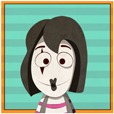
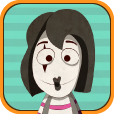
icone novo e entitlements

diff --git a/Mimicmize/StoreViewController.m b/Mimicmize/StoreViewController.m
@@ -10,23 +10,213 @@
 
 @interface StoreViewController ()
 
+@property (nonatomic, strong) NSMutableArray *array_comprados;
+@property (nonatomic, strong) NSMutableArray *array_nao_comprados;
+@property (nonatomic, strong) Bundle *bundle_selected;
+@property (weak, nonatomic) IBOutlet UITableView *table;
+@property (strong, nonatomic) SKProductsRequest *productsRequest;
+@property (nonatomic, strong) SKProduct *product_bundle;
+
 @end
 
 @implementation StoreViewController
 
-- (id)initWithNibName:(NSString *)nibNameOrNil bundle:(NSBundle *)nibBundleOrNil
+#pragma mark - StoreKit 
+
+- (void)productsRequest:(SKProductsRequest *)request didReceiveResponse:(SKProductsResponse *)response
 {
-    self = [super initWithNibName:nibNameOrNil bundle:nibBundleOrNil];
-    if (self) {
-        // Custom initialization
+  NSArray *products = response.products;
+  NSArray *invalid_products = response.invalidProductIdentifiers;
+  if ([invalid_products count] > 0 ) {
+    
+    NSLog(@"Invalid products: %@", invalid_products);
+    [SVProgressHUD showErrorWithStatus:@"Erro ao processar"];
+    return;
+  }
+  
+  self.product_bundle = [products objectAtIndex:0];
+  [self charge_for_bundle];
+}
+
+- (void)paymentQueue:(SKPaymentQueue *)queue updatedTransactions:(NSArray *)transactions
+{
+  for (SKPaymentTransaction *transaction in transactions)
+  {
+    switch (transaction.transactionState)
+    {
+      case SKPaymentTransactionStatePurchased:
+        [self success:transaction];
+        break;
+      case SKPaymentTransactionStateFailed:
+        [self failed:transaction];
+        break;
+      case SKPaymentTransactionStateRestored:
+        [self restore:transaction];
+        break;
+      default:
+        break;
     }
-    return self;
+  }
+}
+
+-(void) failed : (SKPaymentTransaction *)transaction {
+  
+  [SVProgressHUD showErrorWithStatus:@"Cancelado"];
+  NSLog(@"Erro: %@",transaction.error);
+  NSLog(@"UserInfo: %@",transaction.error.userInfo);
+  [[SKPaymentQueue defaultQueue] finishTransaction:transaction];
+}
+
+-(void) restore : (SKPaymentTransaction *)transaction {
+  
+  [[SKPaymentQueue defaultQueue] finishTransaction:transaction];
+  
+  Bundle *bundle = [Bundle findFirstByAttribute:@"inapp_id" withValue:transaction.payment.productIdentifier];
+  bundle.comprado = [NSNumber numberWithBool:YES];
+  [[NSManagedObjectContext defaultContext]save];
+  
+  [self reload_table_info:YES];
+}
+
+-(void) success : (SKPaymentTransaction *)transaction {
+  
+  [[SKPaymentQueue defaultQueue] finishTransaction:transaction];
+  
+  Bundle *bundle = [Bundle findFirstByAttribute:@"inapp_id" withValue:transaction.payment.productIdentifier];
+  bundle.comprado = [NSNumber numberWithBool:YES];
+  [SVProgressHUD showSuccessWithStatus:@"Comprado!"];
+  
+  NSInteger bundle_row = [self.array_nao_comprados indexOfObject:self.bundle_selected];
+  [self.array_nao_comprados removeObject:self.bundle_selected];
+  
+  NSIndexPath *indexPath = [NSIndexPath indexPathForRow:bundle_row inSection:1];
+  [self.table deleteRowsAtIndexPaths:[NSArray arrayWithObject:indexPath] withRowAnimation:UITableViewRowAnimationTop];
+  
+  [self.array_comprados insertObject:self.bundle_selected atIndex:0];
+  indexPath = [NSIndexPath indexPathForRow:0 inSection:0];
+  [self.table insertRowsAtIndexPaths:[NSArray arrayWithObject:indexPath] withRowAnimation:UITableViewRowAnimationTop];
+  
+  [[NSManagedObjectContext defaultContext]save];
+}
+
+-(void) charge_for_bundle {
+  
+  SKPayment *payment = [SKPayment paymentWithProduct:self.product_bundle];
+  [[SKPaymentQueue defaultQueue] addPayment:payment];
+}
+
+#pragma mark - UIAlertView
+
+- (void)alertView:(UIAlertView *)alertView clickedButtonAtIndex:(NSInteger)buttonIndex {
+  
+  if (buttonIndex == 0) {
+    return;
+  }
+  
+  [self charge_for_bundle];
+}
+
+#pragma mark - Tableview
+
+-(NSInteger) numberOfSectionsInTableView:(UITableView *)tableView {
+  
+  return 2;
+}
+
+-(NSString *) tableView:(UITableView *)tableView titleForHeaderInSection:(NSInteger)section {
+  
+  if (section == 0) {
+    
+    return [LocalizeHelper get_compradas_string];
+  }
+  
+  return [LocalizeHelper get_nao_compradas_string];
+}
+
+-(NSInteger) tableView:(UITableView *)tableView numberOfRowsInSection:(NSInteger)section {
+  
+  if (section == 0) {
+    return [self.array_comprados count];
+  }
+  
+  return [self.array_nao_comprados count];
+}
+
+-(UITableViewCell *) tableView:(UITableView *)tableView cellForRowAtIndexPath:(NSIndexPath *)indexPath {
+  
+  static NSString *CellIdentifier = @"store_cell";
+  UITableViewCell *cell = [[UITableViewCell alloc] initWithStyle:UITableViewCellStyleValue1 reuseIdentifier:CellIdentifier];
+  
+  if (cell == nil) {
+    cell = [[UITableViewCell alloc] init];
+  }
+  
+  NSArray *array_use = nil;
+  if (indexPath.section == 0) {
+    
+    array_use = self.array_comprados;
+    cell.accessoryType = UITableViewCellAccessoryCheckmark;
+  }
+  else {
+    array_use = self.array_nao_comprados;
+    cell.accessoryType = UITableViewCellAccessoryDisclosureIndicator;
+  }
+    
+  Bundle *bundle = [array_use objectAtIndex:indexPath.row];
+  Bundle_Localize *localized = [bundle get_localized_attributes];
+  cell.textLabel.text = localized.nome;
+  return cell;
+}
+
+-(void) tableView:(UITableView *)tableView didSelectRowAtIndexPath:(NSIndexPath *)indexPath {
+  
+  [[tableView cellForRowAtIndexPath:indexPath] setSelected:NO animated:YES];
+  
+  if (indexPath.section == 0) {
+    return;
+  }
+  
+  NSArray *array_use = self.array_nao_comprados;
+  Bundle *bundle = [array_use objectAtIndex:indexPath.row];
+  self.bundle_selected = bundle;
+  
+  if ([SKPaymentQueue canMakePayments]) {
+    [SVProgressHUD showWithStatus:@"Processando..." maskType:SVProgressHUDMaskTypeGradient];
+    NSSet *productIdentifiers = [NSSet setWithObject:self.bundle_selected.inapp_id];
+    self.productsRequest = [[SKProductsRequest alloc] initWithProductIdentifiers:productIdentifiers];
+    self.productsRequest.delegate = self;
+    [self.productsRequest start];
+  }
+  else {
+    [SVProgressHUD showErrorWithStatus:@"Parental control is enabled"];
+  }
+}
+
+-(void) reload_table_info:(BOOL) should_reload_table {
+  
+  self.array_comprados = [NSMutableArray arrayWithArray: [Bundle findByAttribute:@"comprado" withValue:[NSNumber numberWithBool:YES]] ]; //andOrderBy:@"nome" ascending:YES];
+  self.array_nao_comprados = [NSMutableArray arrayWithArray: [Bundle findByAttribute:@"comprado" withValue:[NSNumber numberWithBool:NO]] ];// andOrderBy:@"nome" ascending:YES];
+  
+  if (should_reload_table) {
+    
+    [self.table reloadData];
+  }
+}
+
+-(void) dismiss {
+  
+  [self dismissModalViewControllerAnimated:YES];
 }
 
 - (void)viewDidLoad
 {
-    [super viewDidLoad];
-    // Do any additional setup after loading the view from its nib.
+  [super viewDidLoad];
+  
+  [[SKPaymentQueue defaultQueue] addTransactionObserver:self];
+  [self reload_table_info:NO];
+  
+  self.navigationItem.rightBarButtonItem =
+    [[UIBarButtonItem alloc] initWithBarButtonSystemItem:UIBarButtonSystemItemDone target:self action:@selector(dismiss)];
 }
 
 - (void)didReceiveMemoryWarning
@@ -35,4 +225,15 @@
     // Dispose of any resources that can be recreated.
 }
 
+-(void) viewDidAppear:(BOOL)animated {
+  
+  //[[SKPaymentQueue defaultQueue] restoreCompletedTransactions];
+}
+
+- (void)viewDidUnload {
+  
+  [[SKPaymentQueue defaultQueue] removeTransactionObserver:self];
+  [self setTable:nil];
+  [super viewDidUnload];
+}
 @end

diff --git a/Mimicmize/StoreViewController.h b/Mimicmize/StoreViewController.h
@@ -7,7 +7,11 @@
 //
 
 #import <UIKit/UIKit.h>
+#import "LocalizeHelper.h"
+#import "BundleModel.h"
+#import "SVProgressHUD.h"
+#import <StoreKit/StoreKit.h>
 
-@interface StoreViewController : UIViewController
+@interface StoreViewController : UIViewController<UITableViewDataSource, UITableViewDelegate, UIAlertViewDelegate,SKPaymentTransactionObserver,SKProductsRequestDelegate>
 
 @end
